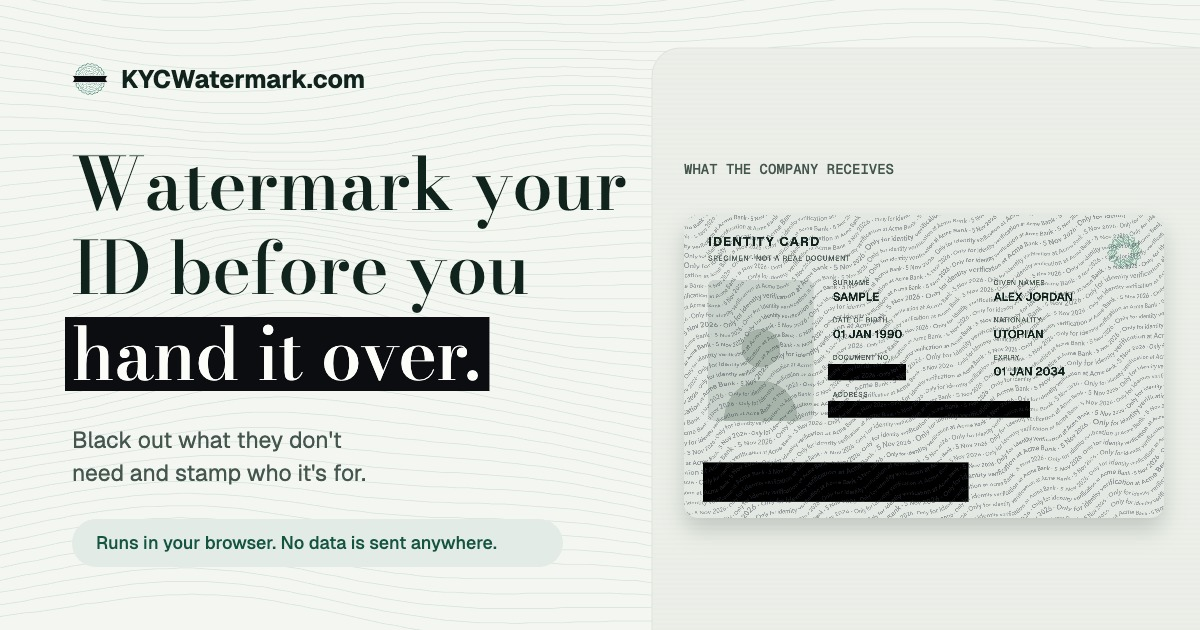
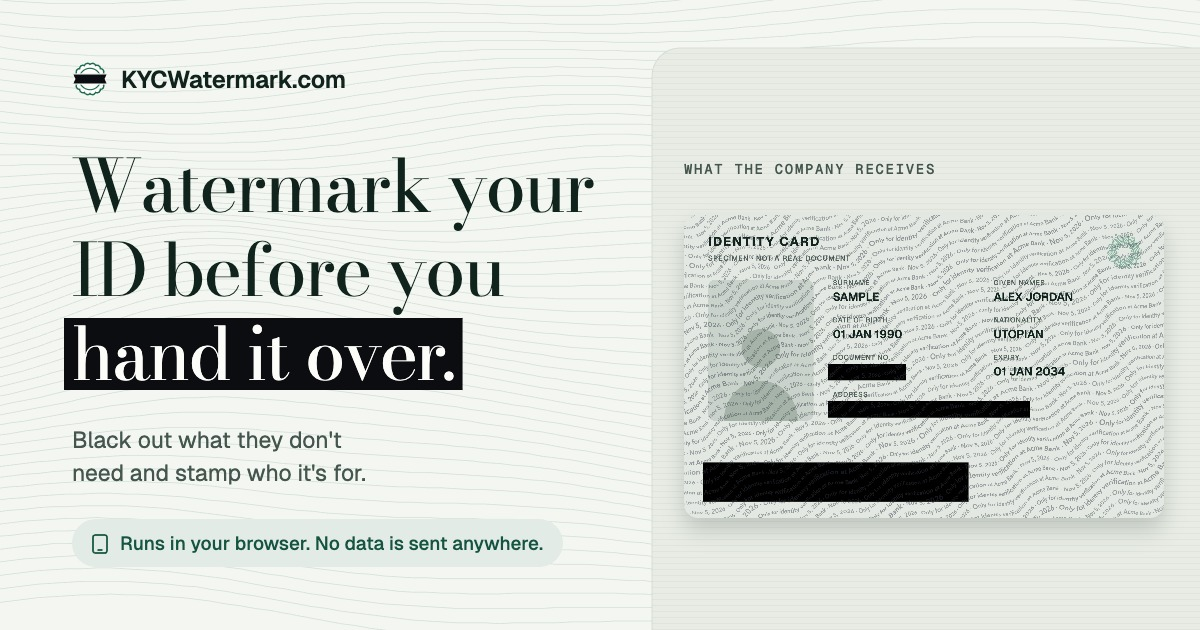
Restore original framing and scale of preview images

diff --git a/index.html b/index.html
@@ -19,7 +19,7 @@
       content="Add purpose-specific watermarks to ID documents and KYC images directly in your browser. Free, offline, open source. No uploads, no servers."
     />
     <!-- Bump ?v= when og-image.jpg changes, so sites that cached the old preview fetch the new one. -->
-    <meta property="og:image" content="https://kycwatermark.com/og-image.jpg?v=3" />
+    <meta property="og:image" content="https://kycwatermark.com/og-image.jpg?v=4" />
     <meta property="og:image:type" content="image/jpeg" />
     <meta property="og:image:width" content="1200" />
     <meta property="og:image:height" content="630" />
@@ -31,7 +31,7 @@
       name="twitter:description"
       content="Add purpose-specific watermarks to ID documents and KYC images directly in your browser. Free, offline, open source. No uploads, no servers."
     />
-    <meta name="twitter:image" content="https://kycwatermark.com/og-image.jpg?v=3" />
+    <meta name="twitter:image" content="https://kycwatermark.com/og-image.jpg?v=4" />
     <meta name="twitter:image:alt" content="KYCWatermark.com: &quot;Watermark your ID before you hand it over.&quot;, with &quot;hand it over.&quot; blacked out, next to a sample ID card with three details hidden and dense woven watermark text" />
 
     <title>KYCWatermark.com — Watermark your ID before you hand it over</title>

diff --git a/docs/preview-assets.md b/docs/preview-assets.md
@@ -8,12 +8,17 @@ landing page's draft preview uses the current editor settings directly.
 
 Two committed images also need refreshing after changes to the default pattern:
 
-- `docs/screenshot-editor.png`: capture the running editor in a desktop browser.
+- `docs/screenshot-editor.png`: capture the running editor at a **1440 × 1000
+  CSS pixel viewport with device scale factor 2**, producing a **2880 × 2000 PNG**.
+  Check both `innerWidth` / `innerHeight` and the saved image dimensions; some
+  capture tools export CSS pixels even when the device scale factor is 2.
+  Keep this viewport so the controls retain their original readable scale.
   Choose the sample ID, cover its document number, address and bottom code strip,
   then enter “Acme Bank” with Identity check, today's date, Woven and Bold selected.
-  Leave Fine-tune collapsed and keep the whole editor visible.
+  Leave Fine-tune collapsed and the settings panel scrolled to the top.
 - `public/og-image.jpg`: generate the 1200 × 630 share card from the current sample,
-  logo, fonts and production renderer using the module below. The example's date
+  header logo, fonts and production renderer using the module below. Preserve
+  the original card placement, type scale and privacy badge. The example's date
   and seed are fixed so repeated renders use the same pattern.
 
 With `pnpm dev` running, open the app and run this in its browser console:
